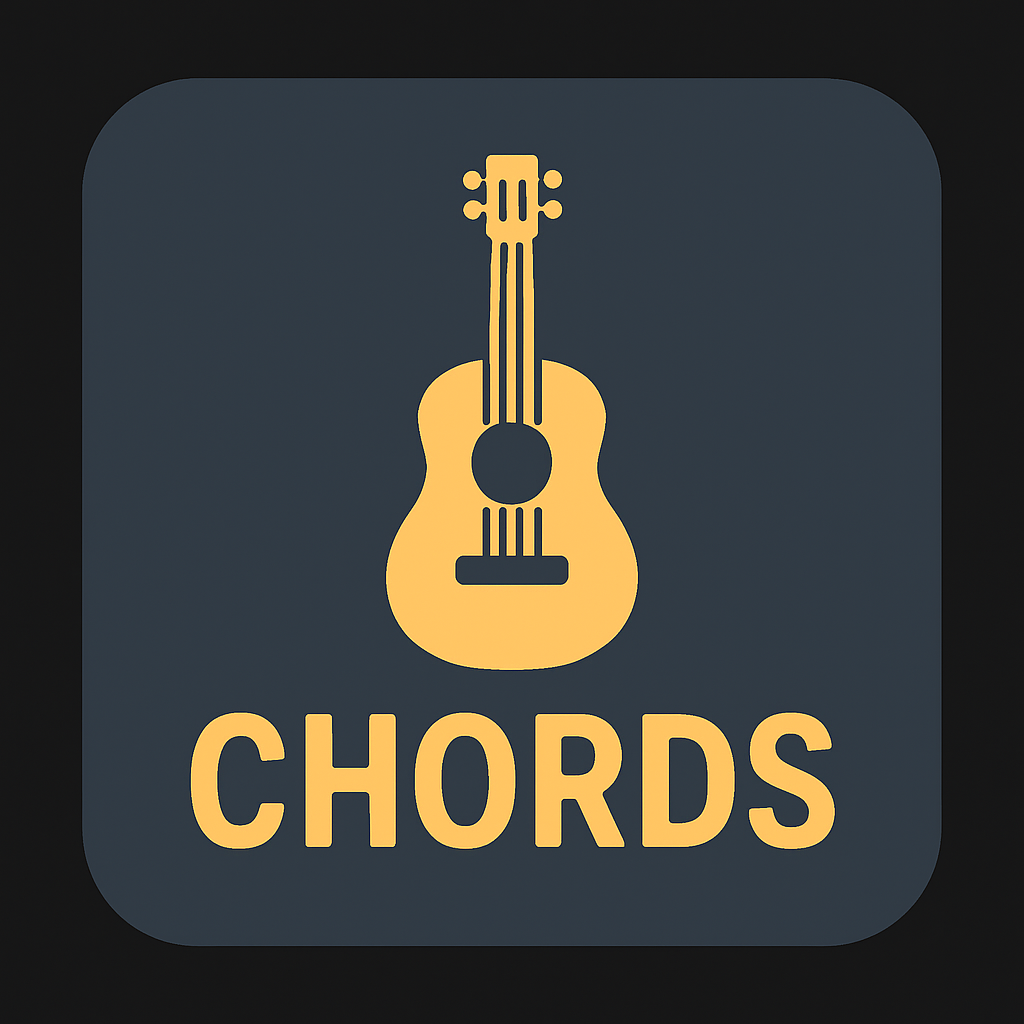
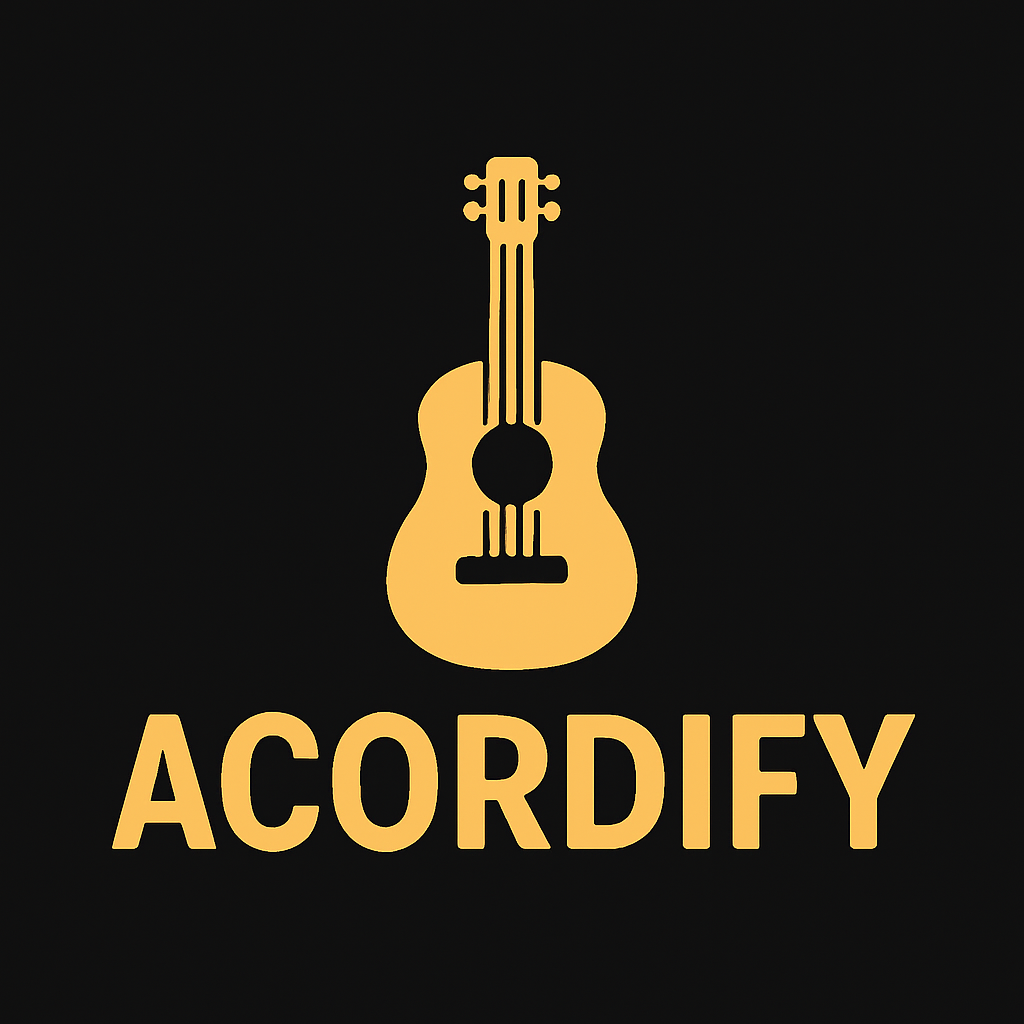
cancion nueva, cambio de botón, nombre nuevo y foto nueva

diff --git a/funcionalidad.js b/funcionalidad.js
@@ -372,119 +372,86 @@ function showNotification(message) {
 }
 
 /* =========================================================
-   PWA: LÓGICA DE BOTÓN INTELIGENTE (UNIFICADO)
+   PWA: LÓGICA INVERTIDA (Default: Compartir -> Detectar: Instalar)
    ========================================================= */
 
 // 1. Registrar Service Worker
 if ('serviceWorker' in navigator) {
     window.addEventListener('load', () => {
         navigator.serviceWorker.register('./sw.js')
-            .then(reg => console.log('SW registrado'))
-            .catch(err => console.log('SW error', err));
+            .catch(err => console.log('SW fallo', err));
     });
 }
 
-// 2. Variables y Referencias
+// 2. Referencias
 let deferredPrompt; 
 const actionBtn = document.getElementById('actionBtn'); 
 
-// 3. VERIFICACIONES DE ESTADO
-// A. ¿Ya está instalada?
-const isStandalone = window.matchMedia('(display-mode: standalone)').matches || window.navigator.standalone === true;
-// B. ¿Es escritorio/PC? (Pantalla mayor a 1024px)
-const isDesktop = window.matchMedia('(min-width: 1024px)').matches;
-
-// LÓGICA INICIAL:
-// Si ya está instalada O si es una PC de escritorio -> Muestra "Compartir"
-if (isStandalone || isDesktop) {
-    setShareMode();
-}
-
-// 4. Escuchar evento de instalación (Chrome/Android)
+// 3. EVENTO CLAVE: El navegador nos avisa que se puede instalar
 window.addEventListener('beforeinstallprompt', (e) => {
-    e.preventDefault(); 
-    deferredPrompt = e; 
-    console.log("Evento de instalación capturado.");
-    // NOTA: Si es Desktop, aunque capturemos el evento, el botón seguirá diciendo "Compartir"
-    // gracias al chequeo "if (isDesktop) setShareMode()" de arriba.
+    // a) Prevenir comportamiento nativo
+    e.preventDefault();
+    deferredPrompt = e;
+    
+    // b) DETECTAMOS QUE NO ESTÁ INSTALADA
+    // Como el evento se disparó, sabemos que el usuario NO tiene la app.
+    // CAMBIAMOS EL BOTÓN A MODO "INSTALAR"
+    if (actionBtn) {
+        actionBtn.innerHTML = "📲 Instalar";
+        actionBtn.style.color = "#4cd137"; // Ponerlo verde llamativo
+        actionBtn.classList.remove('mode-share');
+    }
+    console.log("App no instalada: Botón cambiado a Instalar.");
 });
 
-// 5. Manejar el clic del botón único
+// 4. Manejar el clic (Lógica Unificada)
 if (actionBtn) {
     actionBtn.addEventListener('click', async (e) => {
         e.preventDefault();
 
-        // CASO A: Modo Compartir
-        // Entra aquí si: Ya está instalada, O es Desktop, O el usuario aceptó instalar antes
-        if (actionBtn.classList.contains('mode-share')) {
-            shareApp(); 
-            return;
-        }
-
-        // CASO B: Modo Instalar (Móvil Android)
+        // Si el botón está en modo INSTALAR (porque recibimos el evento)
         if (deferredPrompt) {
-            deferredPrompt.prompt(); 
+            deferredPrompt.prompt();
             const { outcome } = await deferredPrompt.userChoice;
-            console.log(`Usuario eligió: ${outcome}`);
-            deferredPrompt = null; 
+            deferredPrompt = null; // Usado, lo limpiamos
             
+            // Si el usuario aceptó instalar, volvemos a poner "Compartir"
             if (outcome === 'accepted') {
-                setShareMode();
+                resetToShare();
             }
-        } else {
-            // CASO C: Modo Instalar (iPhone / Manual)
-            showManualInstallInstructions();
+        } 
+        // Si no hay evento pendiente, actuamos como COMPARTIR
+        // (Esto cubre: App ya instalada, iPhone, Desktop)
+        else {
+            shareApp();
         }
     });
 }
 
-// 6. Detectar instalación exitosa
+// 5. Detectar instalación exitosa
 window.addEventListener('appinstalled', () => {
-    setShareMode();
+    resetToShare();
 });
 
 // --- Funciones Auxiliares ---
 
-function setShareMode() {
+function resetToShare() {
     if (!actionBtn) return;
-    actionBtn.innerHTML = "Compartir"; 
-    actionBtn.style.color = "#ffffff"; 
-    actionBtn.classList.add('mode-share'); 
+    actionBtn.innerHTML = "Compartir";
+    actionBtn.style.color = "#ffffff"; // Volver a blanco
+    actionBtn.classList.add('mode-share');
 }
 
 function shareApp() {
+    // Si estamos en iPhone, mostramos una ayudita extra porque "Compartir" es confuso
+    // para instalar, pero útil para viralizar.
     if (navigator.share) {
         navigator.share({
-            title: 'Acordes Hathaway',
-            text: '¡Mira este cancionero digital!',
+            title: 'Acordify',
             url: window.location.href
         }).catch(console.error);
     } else {
         navigator.clipboard.writeText(window.location.href);
-        showNotification("¡Enlace copiado al portapapeles!");
-    }
-}
-
-function showManualInstallInstructions() {
-    const modal = document.getElementById('installAppModal');
-    if(modal) {
-        modal.style.display = 'flex';
-        const btnClose = document.getElementById('btnCloseInstall');
-        if(btnClose) btnClose.onclick = () => { modal.style.display = 'none'; };
-        
-        const btnInside = document.getElementById('btnInstall');
-        if(btnInside) {
-            btnInside.onclick = async () => {
-                if(deferredPrompt) {
-                    deferredPrompt.prompt();
-                    deferredPrompt = null;
-                    modal.style.display = 'none';
-                } else {
-                    alert("En iPhone/iPad: \n1. Toca Compartir ⬆ \n2. Busca 'Agregar a Inicio' ➕");
-                }
-            };
-        }
-    } else {
-        alert("Para instalar: Busca la opción 'Agregar a pantalla de inicio' en el menú.");
+        showNotification("Enlace copiado. ¡Pégalo para compartir!");
     }
 }

diff --git a/index.html b/index.html
@@ -3,7 +3,7 @@
 <head>
     <meta charset="UTF-8">
     <meta name="viewport" content="width=device-width, initial-scale=1.0">
-    <title>Acordes Hathaway</title>
+    <title>Acordify</title>
     <link rel="stylesheet" href="styles.css">
     <link rel="manifest" href="manifest.json">
     <meta name="theme-color" content="#1e1e1e">
@@ -11,7 +11,7 @@
 <body>
 
     <header>
-        <div class="brand" onclick="goHome()">🎸AcordesHathaway</div>
+        <div class="brand" onclick="goHome()">🎸Acordify</div>
         
         <div class="search-container">
             <svg class="search-icon" width="18" height="18" viewBox="0 0 24 24" fill="none" stroke="currentColor" stroke-width="2" stroke-linecap="round" stroke-linejoin="round"><circle cx="11" cy="11" r="8"></circle><line x1="21" y1="21" x2="16.65" y2="16.65"></line></svg>
@@ -21,8 +21,8 @@
         <div class="nav-links">
             <a href="lista.html" id="linkList">Lista</a> 
             
-            <a href="#" id="actionBtn" style="color: #4cd137; font-weight: bold;">
-                📲 Instalar
+            <a href="#" id="actionBtn" class="mode-share" style="color: #ffffff; font-weight: bold;">
+                Compartir
             </a>
         </div>
     </header>
@@ -103,7 +103,7 @@
     </div>
 
     <footer class="custom-footer">
-        <div class="footer-copyright">Copyright © 2026 | Acordes Hathaway</div>
+        <div class="footer-copyright">Copyright © 2026 | Acordify</div>
         <div class="footer-credit">Servicio hecho por: <span>CirceHathaway</span></div>
     </footer>
 
@@ -111,16 +111,6 @@
 
     <script src="canciones.js"></script>
     <script src="funcionalidad.js"></script>
-
-    <div id="installAppModal">
-        <div style="font-size: 50px;">📲</div>
-        <h3 style="margin: 0; color: #4cd137;">Instalar App</h3>
-        <p style="margin: 10px 0; font-weight: normal; color: #ccc;">Descarga la app para tener el cancionero 100% offline.</p>
-        <div style="display: flex; gap: 10px; justify-content: center; margin-top: 10px;">
-            <button id="btnInstall" class="filter-btn" style="background: #4cd137; color: white; border: none;">Instalar</button>
-            <button id="btnCloseInstall" class="filter-btn" style="background: #444; border: none;">Ahora no</button>
-        </div>
-    </div>
 
 </body>
 </html>

diff --git a/styles.css b/styles.css
@@ -131,6 +131,7 @@ header {
 table {
     width: 100%;
     border-collapse: collapse;
+    border-spacing: 0;
     background: var(--card-bg);
     border-radius: 15px;
     overflow: hidden;
@@ -589,7 +590,6 @@ tr:hover { background-color: #252525; }
     /* Título más grande para facilitar el toque */
     .song-title {
         font-size: 1rem; 
-        display: block; /* Asegura que ocupe espacio */
     }
 
     /* --- 4. VISTA DE CANCIÓN --- */
@@ -639,31 +639,30 @@ tr:hover { background-color: #252525; }
     }
 }
 
-/* --- ESTILO ESPECÍFICO PARA MODAL DE INSTALACIÓN --- */
-#installAppModal {
-    display: none; /* Oculto por defecto */
-    position: fixed;
-    top: 50%;
-    left: 50%;
-    transform: translate(-50%, -50%); /* Centrado perfecto */
-    z-index: 4000; /* Encima de todo */
-    background-color: #1e1e1e;
-    border: 2px solid #4cd137; /* Borde verde */
+/* ESTILOS PARA EL BOTÓN DE ACCIÓN (INSTALAR/COMPARTIR) */
+#actionBtn {
+    padding: 8px 15px;
     border-radius: 20px;
-    padding: 30px;
-    text-align: center;
-    box-shadow: 0 0 50px rgba(0,0,0,0.9); /* Sombra fuerte para destacar */
-    color: white;
-    flex-direction: column;
-    gap: 15px;
-    width: 85%;
-    max-width: 350px;
-    opacity: 0; /* Para animación de entrada */
-    transition: opacity 0.3s ease;
+    transition: all 0.3s ease;
+    border: 1px solid transparent; /* Para que no salte al agregar borde */
 }
 
-/* Clase para mostrarlo */
-#installAppModal.show-install {
-    display: flex;
-    opacity: 1;
+/* Estado Compartir (Por defecto) */
+#actionBtn.mode-share {
+    color: var(--text-white) !important;
+    background-color: rgba(255,255,255,0.1); /* Un fondo sutil queda elegante */
+}
+
+/* Estado Instalar (Cuando detecta que se puede instalar) */
+#actionBtn.mode-install {
+    color: #4cd137 !important;
+    background-color: rgba(76, 209, 55, 0.1); /* Verde muy suave de fondo */
+    border: 1px solid #4cd137;
+    animation: pulse 2s infinite; /* Un latido para llamar la atención */
+}
+
+@keyframes pulse {
+    0% { transform: scale(1); }
+    50% { transform: scale(1.05); }
+    100% { transform: scale(1); }
 }

diff --git a/canciones.js b/canciones.js
@@ -192,5 +192,21 @@ Y yo soy <span class="g"><span class="chord">Am</span>tuyo.</span> <span class="
 este es el <span class="g"><span class="chord">G</span>pacto.</span>`
     },
 
-    
+    {
+        title: "Anhelo conocerte Espíritu Santo",
+        artist: "Rey de Reyes",
+        key: "A",
+        type: "Adoración",
+        content: `
+<span class="g"><span class="chord">A</span>Anhelo</span> Conocerte Espíritu <span class="g"><span class="chord">D</span>Santo</span>
+<span class="g"><span class="chord">E</span>Anhelo</span> siempre estar cerca de <span class="g"><span class="chord">A</span>Ti</span>
+<span class="g"><span class="chord">F#m</span>Mas</span>yo sé que he fallado tu <span class="g"><span class="chord">Bm</span>presencia</span>
+He descuidado ven y <span class="g"><span class="chord">D</span>limpia todo </span><span class="g"><span class="chord">Bm</span>lo que hay en</span> <span class="g"><span class="chord">E</span>mí.</span>
+
+[Verso 2]
+<span class="g"><span class="chord">A</span>Como</span> Paloma con tu gracia hoy des<span class="g"><span class="chord">D</span>ciende</span>
+<span class="g"><span class="chord">E</span>Como</span> aceite derramado ún<span class="g"><span class="chord">A</span>geme</span>
+Como <span class="g"><span class="chord">F#m</span>fuente</span>de agua de viva
+<span class="g"><span class="chord">Bm</span>Sacia</span> mi ser, llama de <span class="g"><span class="chord">D</span>fuego</span> ven y <span class="g"><span class="chord">E</span>purifíca</span><span class="g"><span class="chord">A</span>me.</span>`
+    },
 ];

diff --git a/lista.html b/lista.html
@@ -3,13 +3,13 @@
 <head>
     <meta charset="UTF-8">
     <meta name="viewport" content="width=device-width, initial-scale=1.0">
-    <title>Mi Lista - Acordes Hathaway</title>
+    <title>Mi Lista - Acordify</title>
     <link rel="stylesheet" href="styles.css">
 </head>
 <body>
 
     <header>
-        <div class="brand" onclick="window.location.href='index.html'">🎸AcordesHathaway</div>
+        <div class="brand" onclick="window.location.href='index.html'">🎸Acordify</div>
         
         <div class="search-container" style="opacity: 0; pointer-events: none;">
             <input type="text" class="search-input">
@@ -82,7 +82,7 @@
     </div>
 
     <footer class="custom-footer">
-        <div class="footer-copyright">Copyright © 2026 | Acordes Hathaway</div>
+        <div class="footer-copyright">Copyright © 2026 | Acordify</div>
         <div class="footer-credit">Servicio hecho por: <span>CirceHathaway</span></div>
     </footer>
 

diff --git a/sw.js b/sw.js
@@ -1,4 +1,4 @@
-const CACHE_NAME = 'hathaway-cache-v4';
+const CACHE_NAME = 'hathaway-cache-v5';
 const ASSETS_TO_CACHE = [
   './',
   './index.html',
